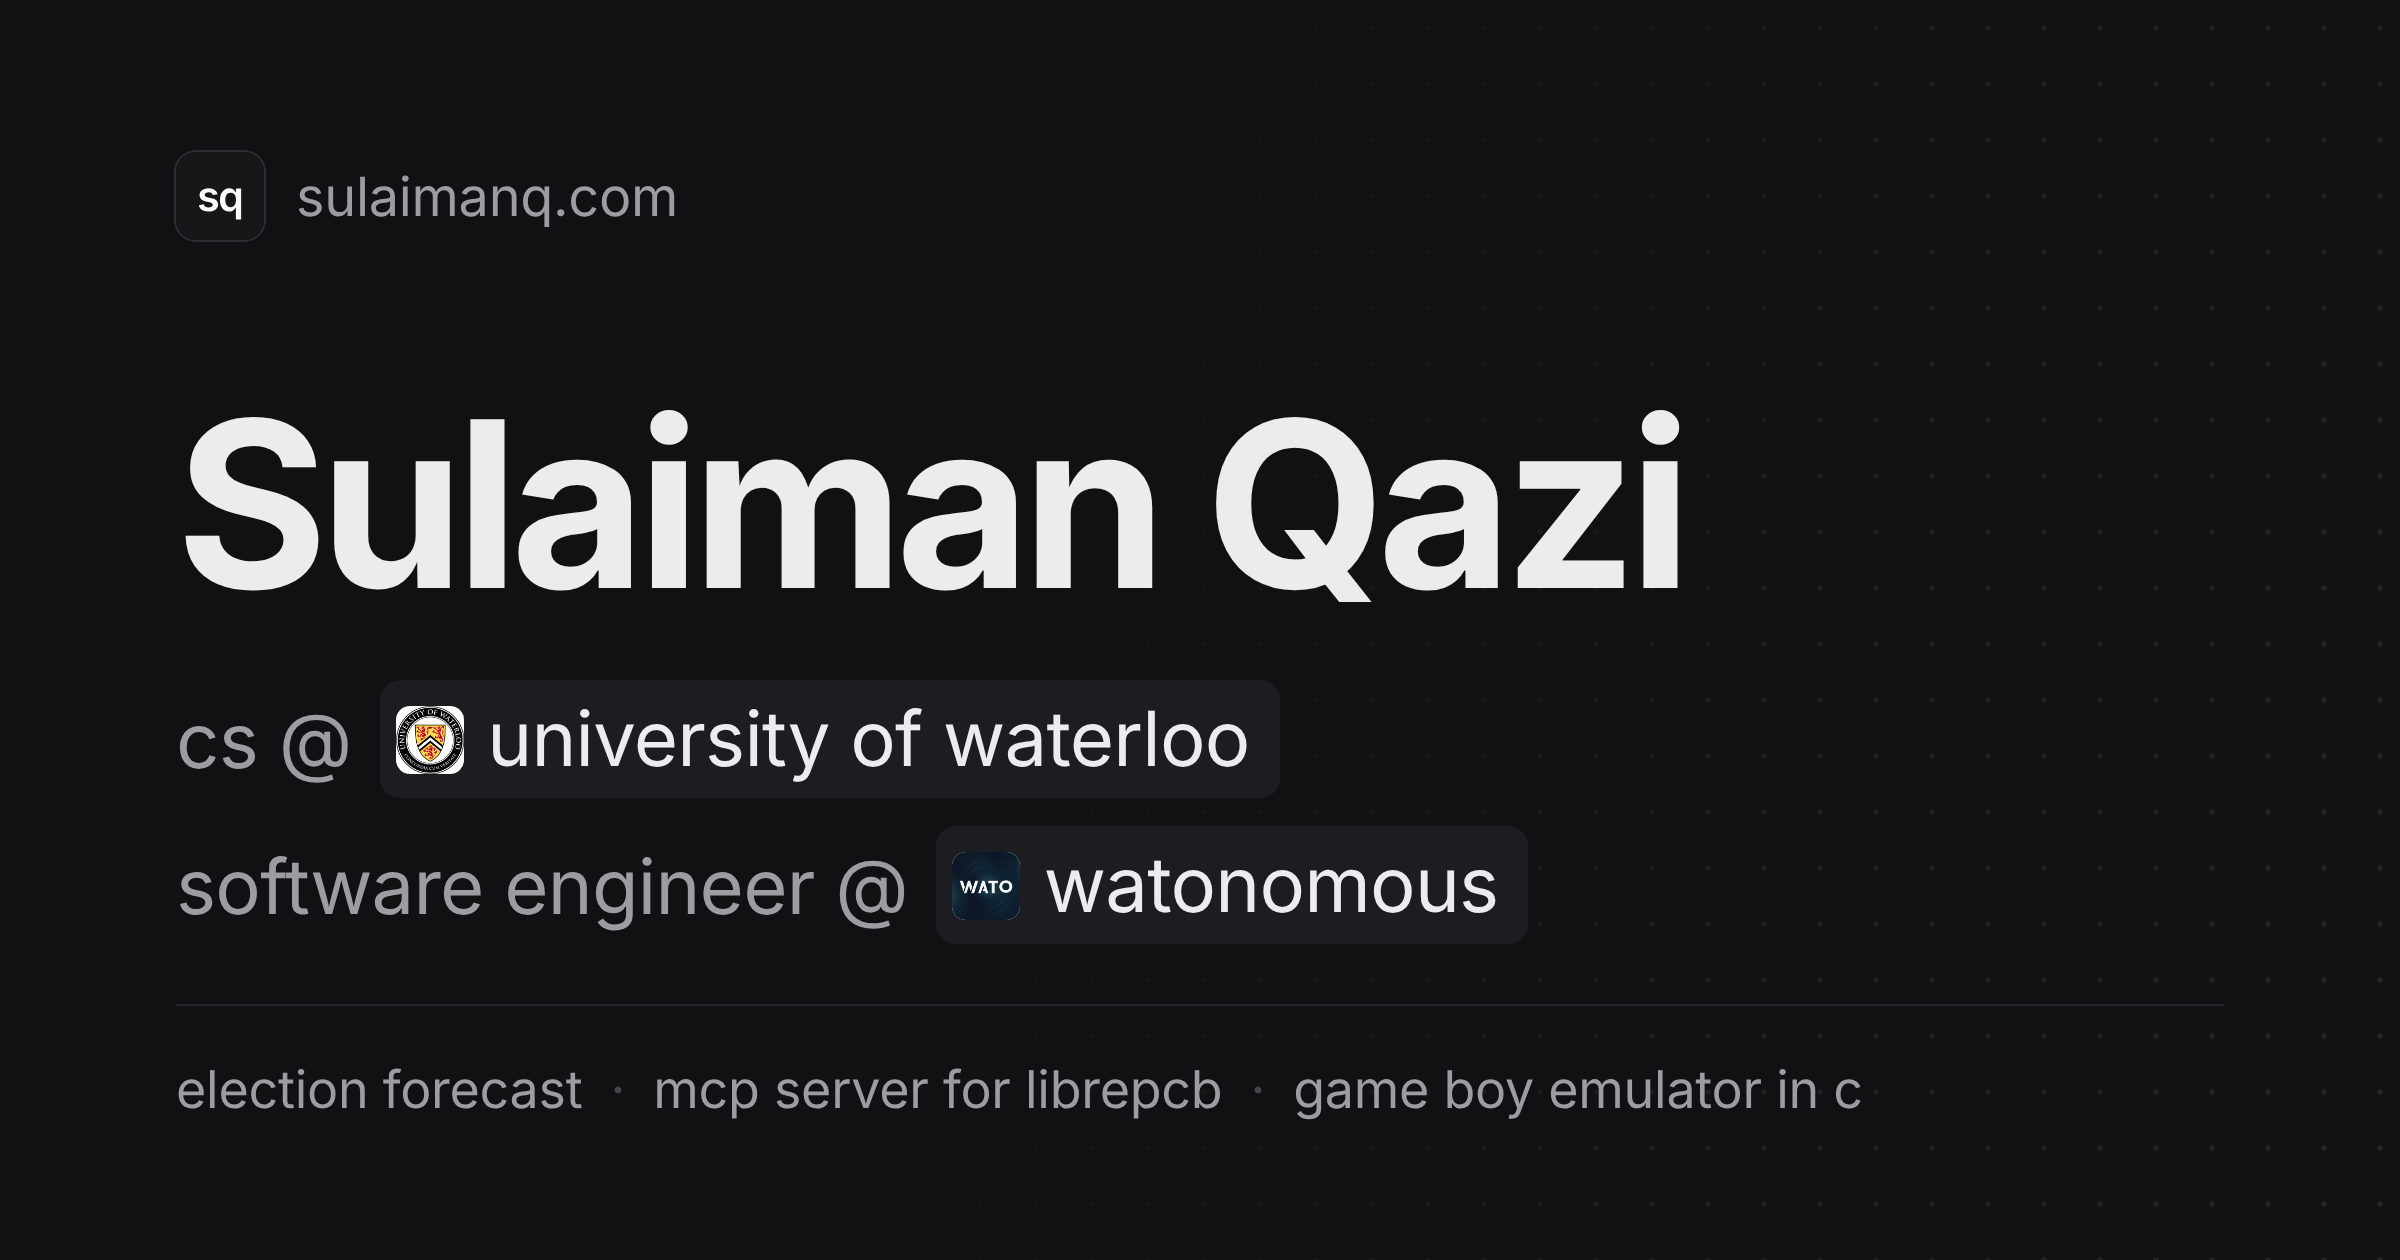
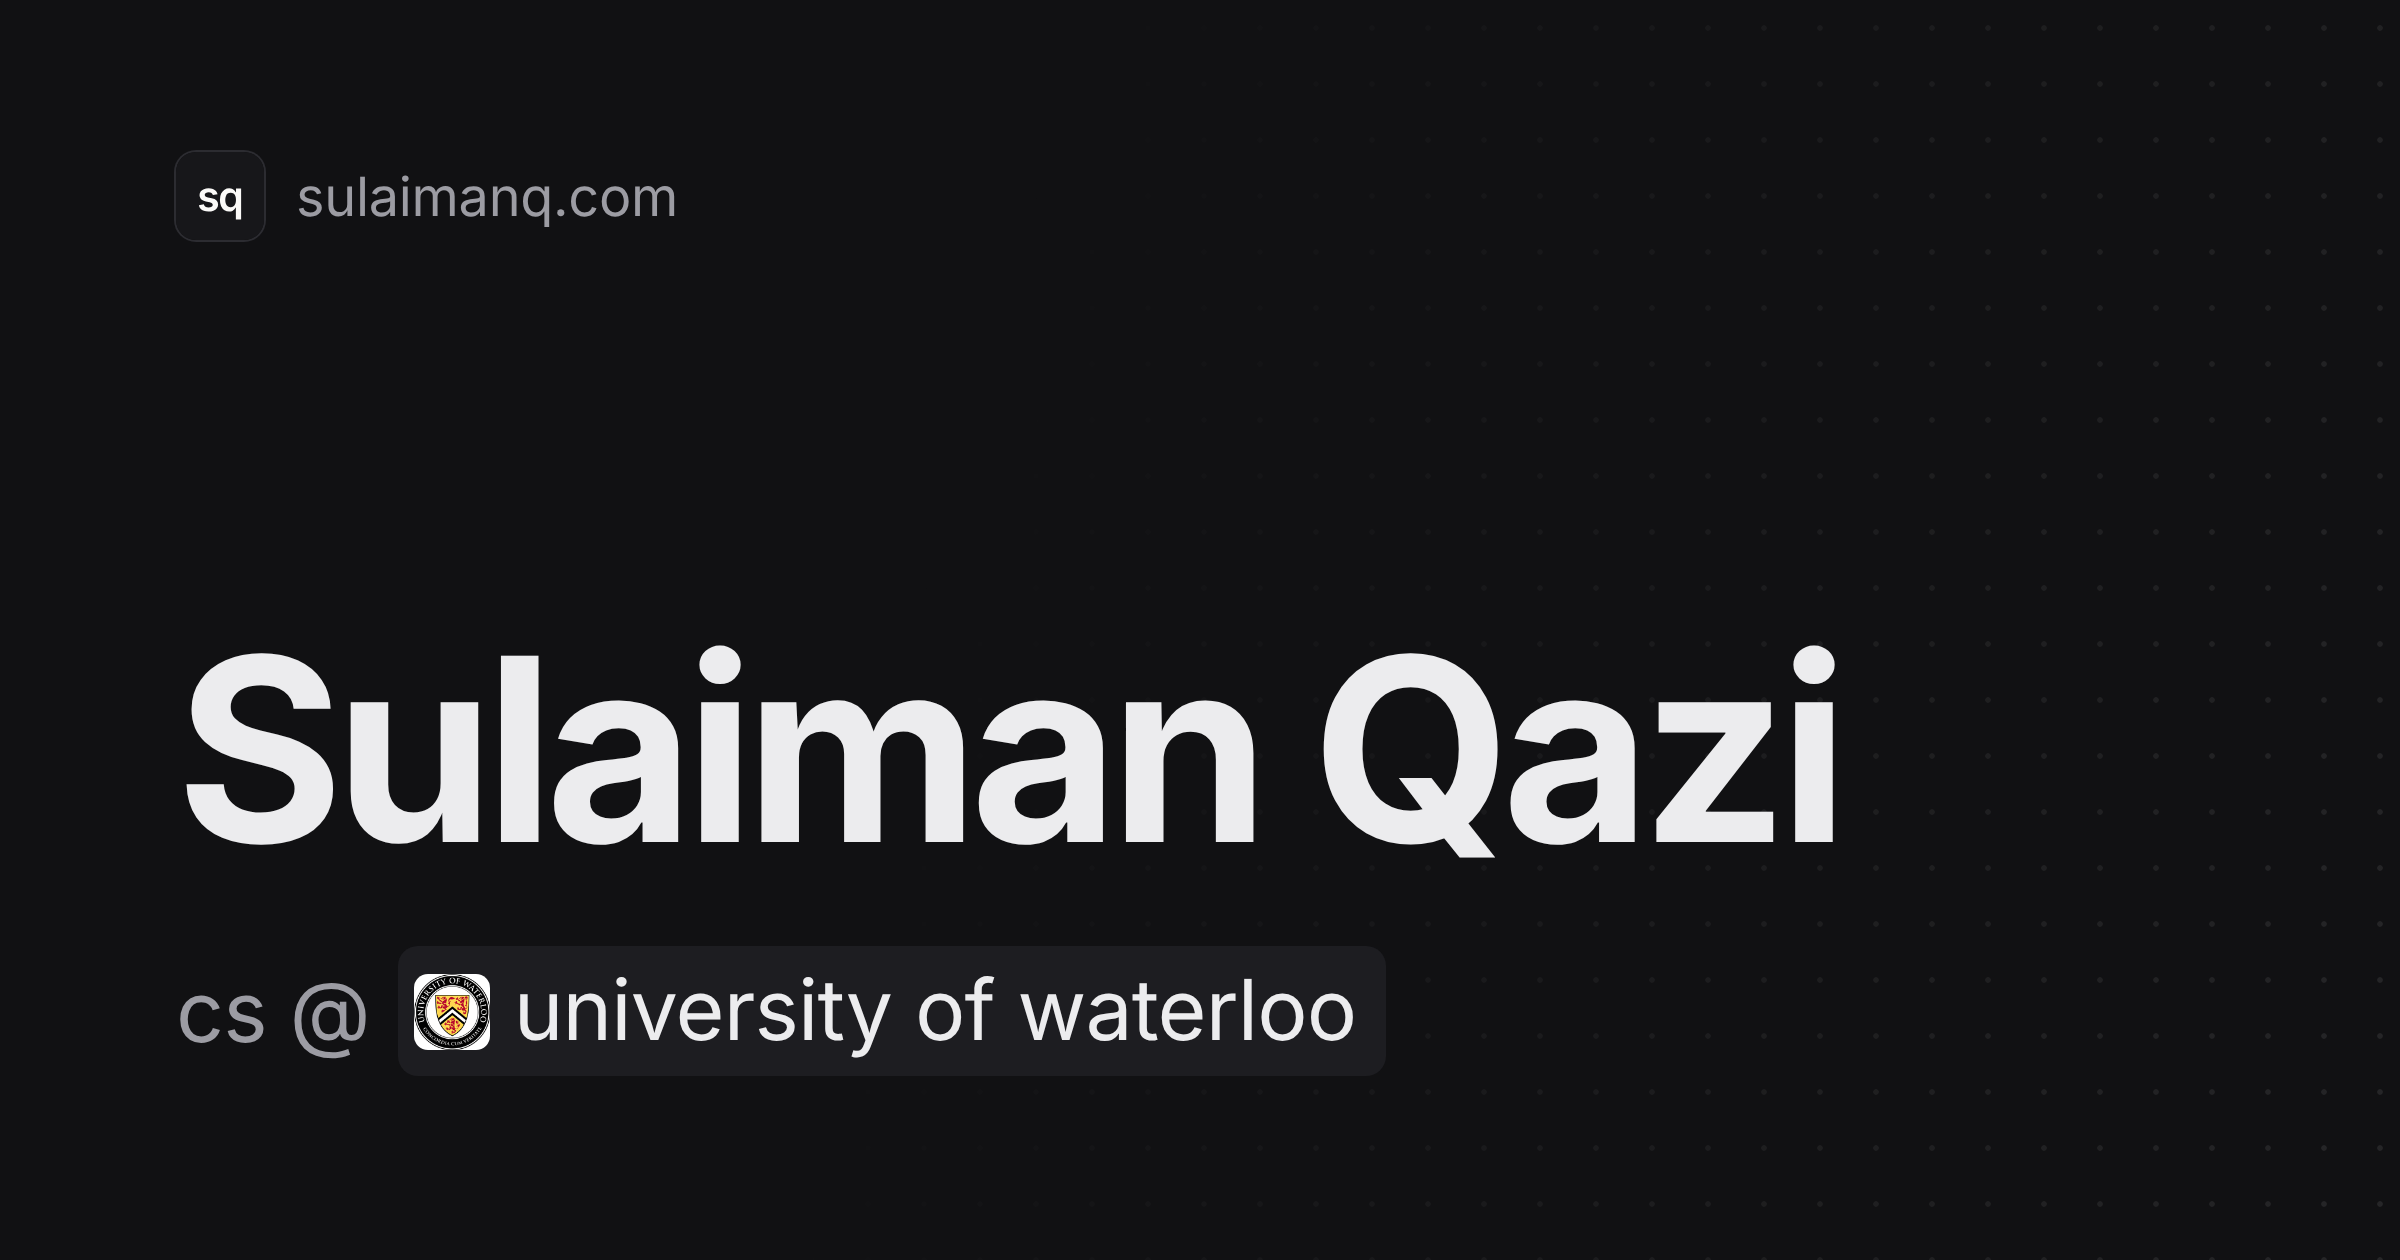
Simplify link preview image to name and school
Claude-Session: https://claude.ai/code/session_01KV8ohj6Eyn4rtCZvUYaKBJ

Changed region(s): [[0.0625, 0.3095, 0.7812, 0.7429], [0.0625, 0.7738, 0.75, 0.8976]]

diff --git a/index.html b/index.html
@@ -17,7 +17,7 @@
 <meta property="og:image" content="https://sulaimanq.com/assets/img/og.png">
 <meta property="og:image:width" content="2400">
 <meta property="og:image:height" content="1260">
-<meta property="og:image:alt" content="Sulaiman Qazi. CS at the University of Waterloo, software engineer at WATonomous.">
+<meta property="og:image:alt" content="Sulaiman Qazi. CS at the University of Waterloo.">
 <meta name="twitter:card" content="summary_large_image">
 <meta name="twitter:image" content="https://sulaimanq.com/assets/img/og.png">
 

diff --git a/projects/index.html b/projects/index.html
@@ -17,7 +17,7 @@
 <meta property="og:image" content="https://sulaimanq.com/assets/img/og.png">
 <meta property="og:image:width" content="2400">
 <meta property="og:image:height" content="1260">
-<meta property="og:image:alt" content="Sulaiman Qazi. CS at the University of Waterloo, software engineer at WATonomous.">
+<meta property="og:image:alt" content="Sulaiman Qazi. CS at the University of Waterloo.">
 <meta name="twitter:card" content="summary_large_image">
 <meta name="twitter:image" content="https://sulaimanq.com/assets/img/og.png">
 
